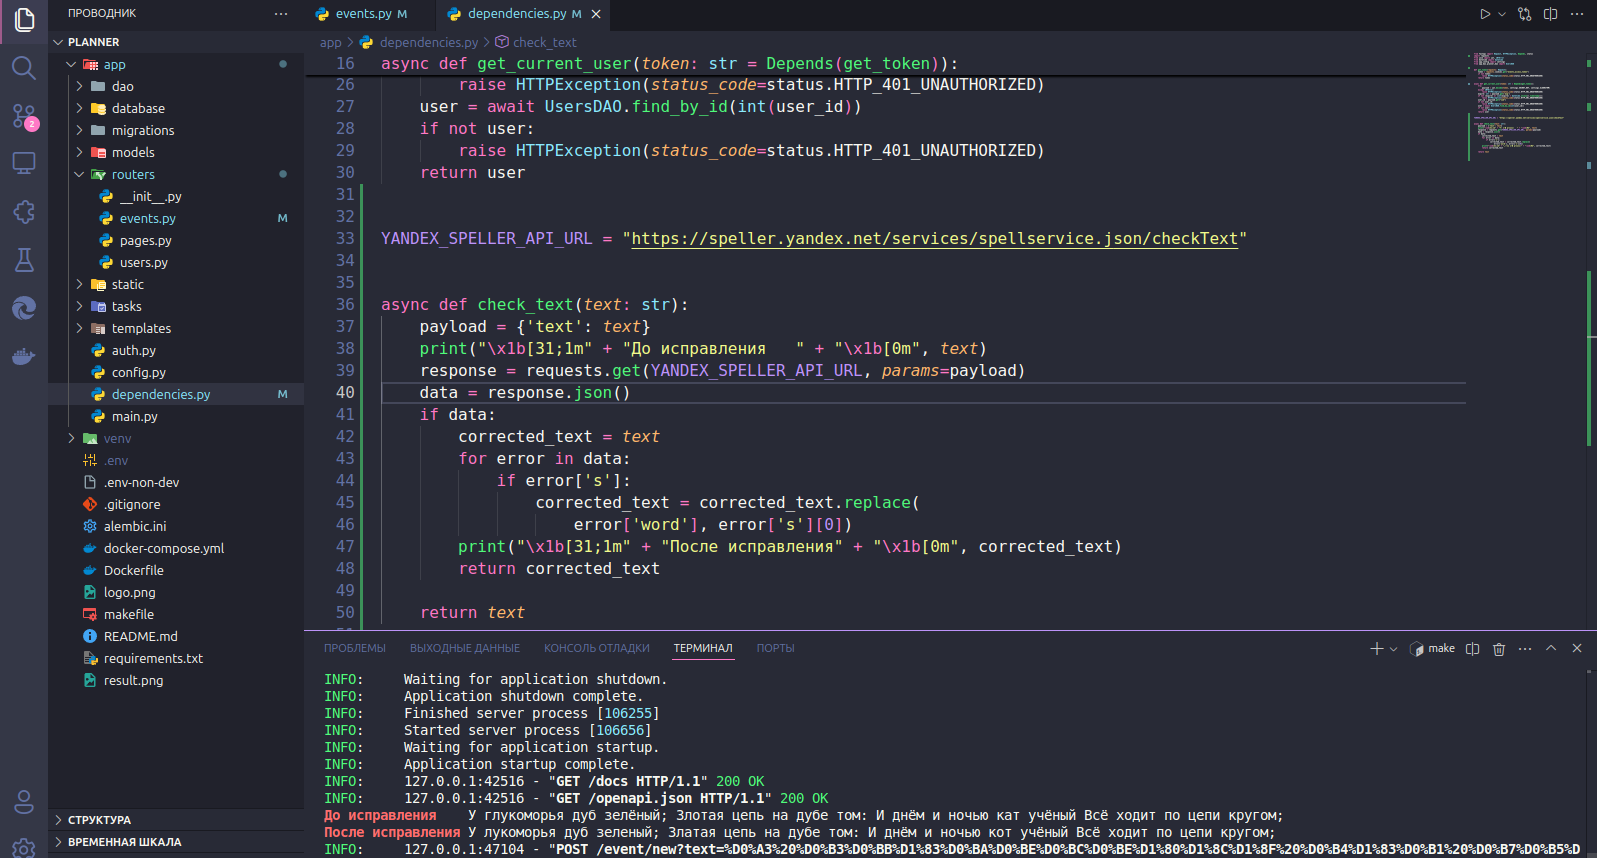
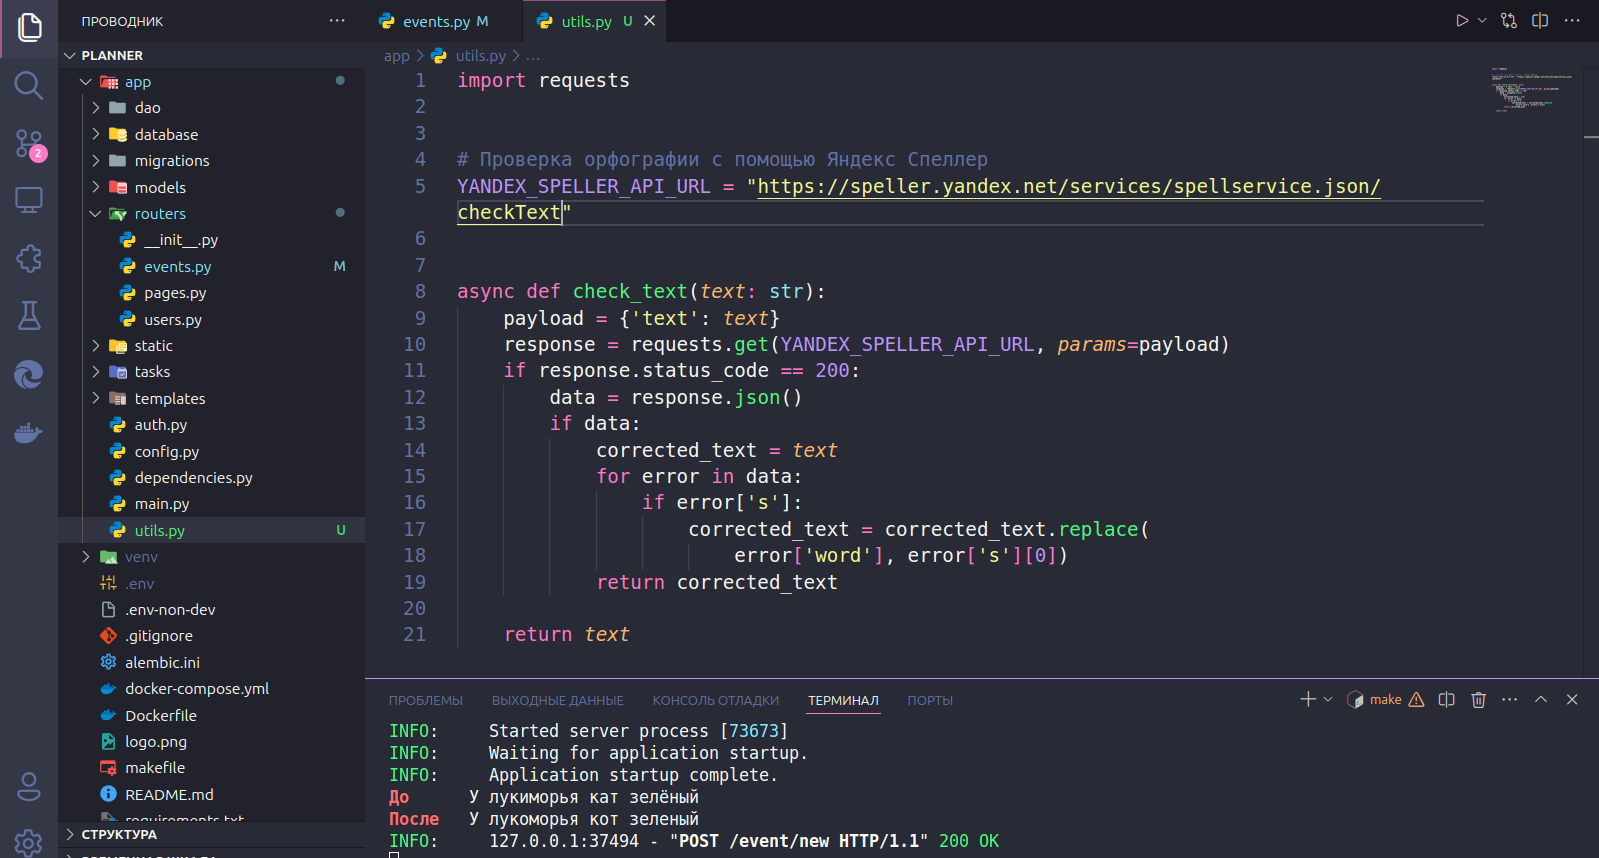
updated check_text and create_event

diff --git a/app/routers/events.py b/app/routers/events.py
@@ -5,14 +5,13 @@ from app.models.users import Users
 from app.dao.planner_dao import EventDAO
 from app.dependencies import get_current_user
 from app.utils import check_text
-from app.dependencies import get_current_user, check_text
+from app.dependencies import get_current_user
 
 
 router = APIRouter(
     prefix="/event",
     tags=["Events"]
 )
-
 
 
 # Получение всех событий
@@ -36,12 +35,12 @@ async def retrive_event(id: int, user: Users = Depends(get_current_user)) -> SEv
 # Создание нового события
 @router.post("/new")
 async def create_event(data: SEvent) -> dict:
-    raw_text = str(data.description) # забираем текст из JSON-формы и передаем его в check_text
-    correxted_text = await check_text(text=raw_text) 
-    print("\x1b[31;1m" + "До     " + "\x1b[0m", data.description)
-    print("\x1b[31;1m" + "После  " + "\x1b[0m", correxted_text)
-    return Response("Success!")
-    # return await EventDAO.add_event(data)
+    raw_text = data.description # забираем текст из JSON-формы и передаем его в check_text
+    correxted_text = await check_text(text=raw_text)
+    # print("\x1b[31;1m" + "До     " + "\x1b[0m", data.description)
+    # print("\x1b[31;1m" + "После  " + "\x1b[0m", correxted_text)
+    data.description = str(correxted_text)  # меняем данные формы на корректные
+    return await EventDAO.add_event(data)
 
 
 # Обновление события

diff --git a/app/dependencies.py b/app/dependencies.py
@@ -30,27 +30,3 @@ async def get_current_user(token: str = Depends(get_token)):
     if not user:
         raise HTTPException(status_code=status.HTTP_401_UNAUTHORIZED)
     return user
-
-
-# Проверка орфографии с помощью Яндекс Спеллер
-YANDEX_SPELLER_API_URL = "https://speller.yandex.net/services/spellservice.json/checkText"
-
-
-async def check_text(text: str):
-    payload = {'text': text}
-    # print("\x1b[31;1m" + "До исправления   " + "\x1b[0m", text)
-    response = requests.get(YANDEX_SPELLER_API_URL, params=payload)
-    data = response.json()
-    if data:
-        corrected_text = text
-        for error in data:
-            if error['s']:
-                corrected_text = corrected_text.replace(
-                    error['word'], error['s'][0])
-        # print("\x1b[31;1m" + "После исправления" + "\x1b[0m", corrected_text)
-        return corrected_text
-
-    return text
-
-
-

diff --git a/app/utils.py b/app/utils.py
@@ -17,5 +17,5 @@ async def check_text(text: str):
                     corrected_text = corrected_text.replace(
                         error['word'], error['s'][0])
             return corrected_text
-        
+
     return text
